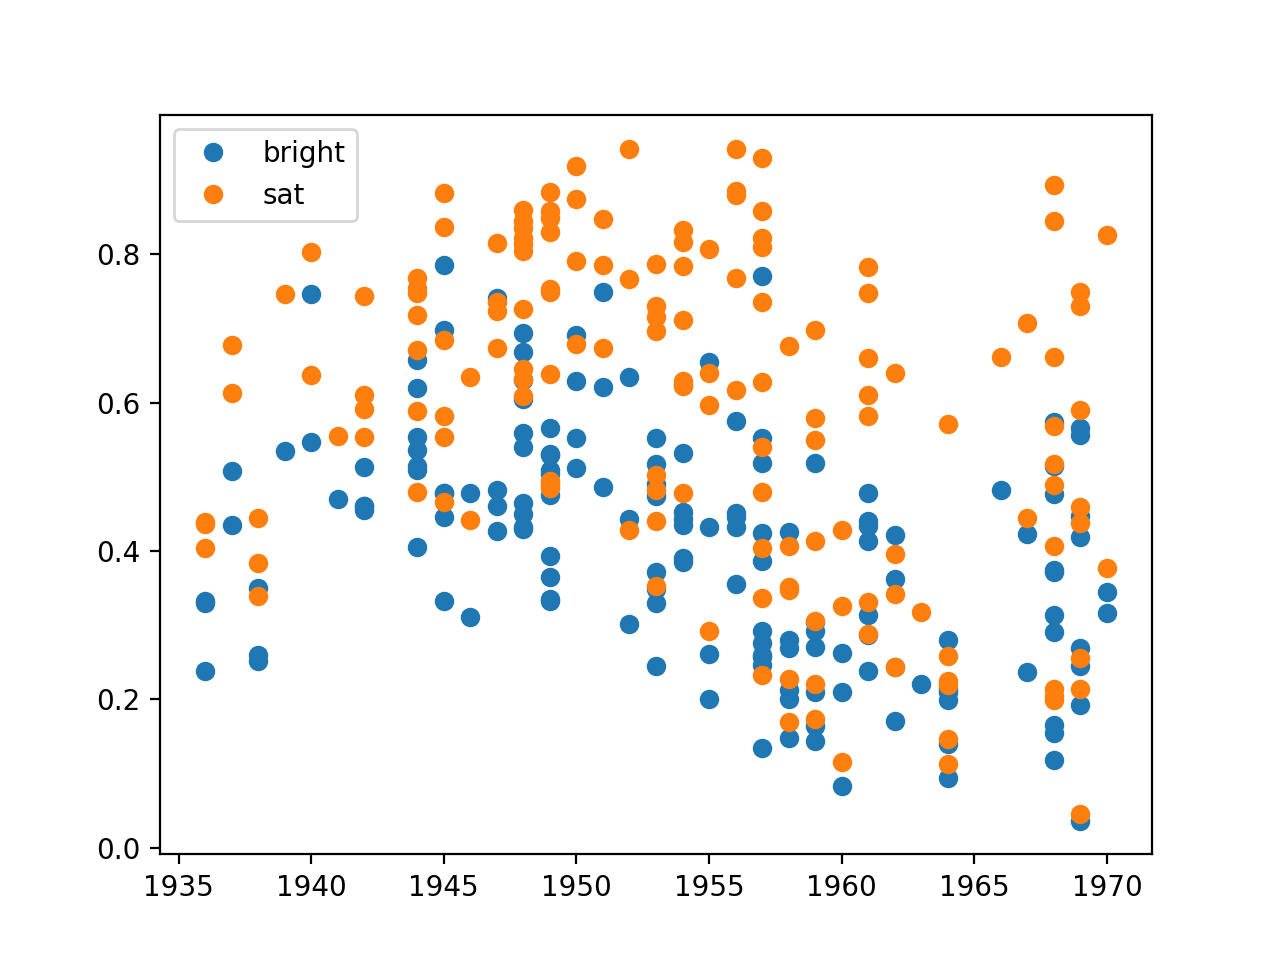
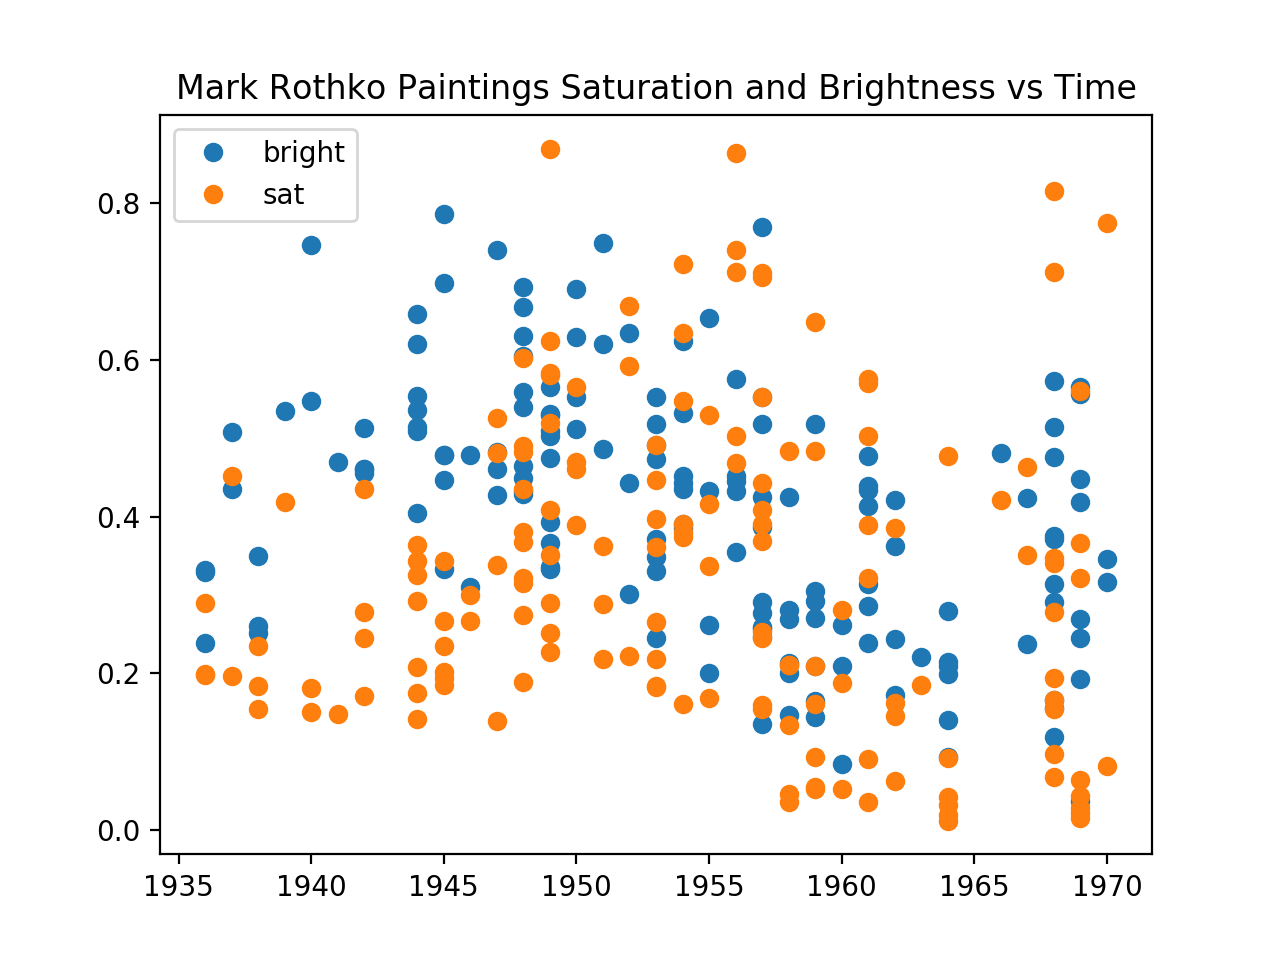
changed readme to advise of white borders added title to plot new plot image

diff --git a/analysis.py b/analysis.py
@@ -43,5 +43,6 @@ for file in img_list:
 
 plt.plot(years, bringhtness, "o", label='bright')
 plt.plot(years, saturation, "o", label='sat')
+plt.title('Mark Rothko Paintings Saturation and Brightness vs Time')
 plt.legend()
 plt.show()

diff --git a/README.md b/README.md
@@ -13,4 +13,6 @@ python3 analysis.py
 
 Final result
 
+*do note that 18 of scraped pictures have significant white borders*
+
 ![graph](rothko.png)
